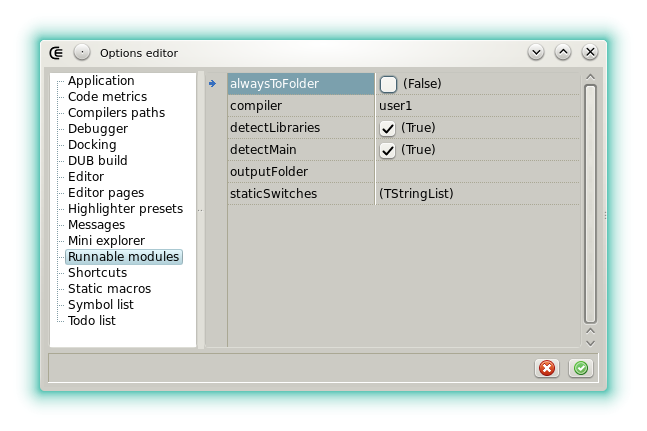
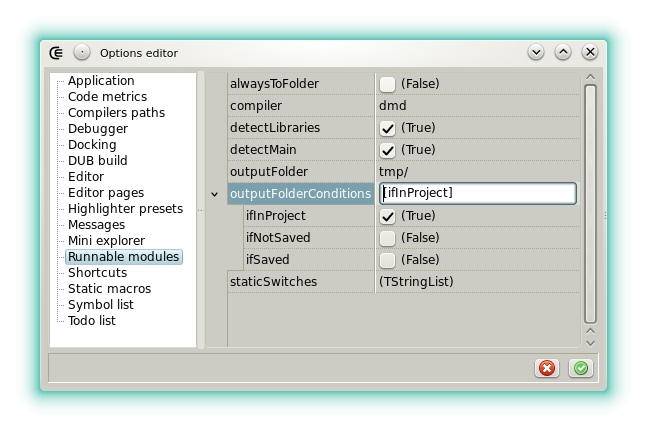
runnables, better control of the outputFolder usage

Changed region(s): [[0.34, 0.3921, 0.8964, 0.6636], [0.3091, 0.1508, 0.6801, 0.2715]]

diff --git a/docs/features_runnables.md b/docs/features_runnables.md
@@ -71,9 +71,13 @@ Note that the action _Run file unittest_ is based on the same internal function 
 
 ![](img/options_runnables.png)
 
-- __alwaysToFolder__: When checked the folder specified in __outputFolder__ is handled, even if the runnable module is not part of the current project.
-- __compiler__: Select the [compiler](options_compilers_paths) used to produce the runnable binary. When GDC or LDC is selected their bridges based on DMD command line interface are used (GDMD and LDMD).
-- __detectLibraries__: When checked the static libraries used by the runnable are detected from the [library manager](widgets_library_manager) by performing import analysis. When unchecked, all the library manager entries are passed and the compiler does the selection.
-- __detectMain__: When checked the `main()` function is detected automatically and the `-main` switch is set accordingly. When not checked `-main` is never passed. This options is useful with the **Run file unittests** action because it allows to test a module that's also a valid program.
-- __outputFolder__: Defines a folder where the runnable binary is output. If the runnable is part of the project this folder is used otherwise __alwaysToFolder__ must also be checked. When the folder is a relative path, it is solved using the runnable module parent directory as root.
-- __staticSwitches__: Defines a list of switches that are always passed to the compiler when a runnable is produced or when a module is tested.
+- **alwaysToFolder**: deprecated, checked meant **outputFolderCondition** set to [ifSaved, ifInProject], and [ifInProject] otherwise.
+- **compiler**: Select the [compiler](options_compilers_paths) used to produce the runnable binary. When GDC or LDC is selected their bridges based on DMD command line interface are used (GDMD and LDMD).
+- **detectLibraries**: When checked the static libraries used by the runnable are detected from the [library manager](widgets_library_manager) by performing import analysis. When unchecked, all the library manager entries are passed and the compiler does the selection.
+- **detectMain**: When checked the `main()` function is detected automatically and the `-main` switch is set accordingly. When not checked `-main` is never passed. This options is useful with the **Run file unittests** action because it allows to test a module that's also a valid program.
+- **outputFolder**: Defines a folder where the runnable binary is output. If the value starts by a drive letter or a directory separator then the folder must exist, otherwise it's considered as a subfolder, relative to the runnable filename, which is created automatically.
+- **outputFolderConditions**: Defines the conditions for which **outputFolder** is handled.
+    - **ifInProject**: The runnable file is part of the current project. For example if **temp/** is in the `.gitignore` and if **outputFolder** is also set to **temp/** then the binary won't appear in the staging area.
+    - **ifSaved**: The runnable file is not in the current project but it's been saved explicitly out of the temp folder that's automatically used by Coedit.
+    - **ifNotSaved**: The runnable file is not part of the project and has never been saved explicitly.
+- **staticSwitches**: Defines a list of switches that are always passed to the compiler when a runnable is produced or when a module is tested.
